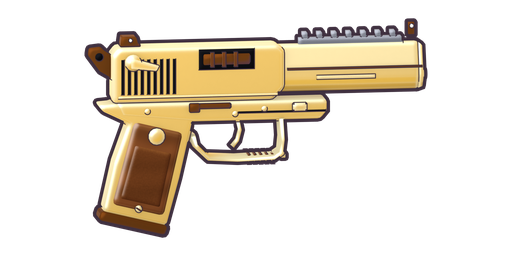
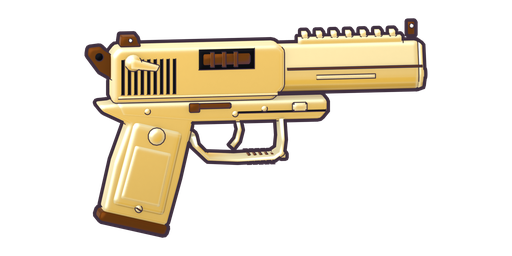
P90 d'après la référence de Victor (bleu marine usé doré, dessus plat, viseur surélevé, ouvertures percées) ; skins appliqués à tous les matériaux de l'arme

Changed region(s): [[0.2188, 0.4688, 0.375, 0.8438], [0.5625, 0.0938, 0.7812, 0.1875]]

diff --git a/art/blender/weapons_hd_p90.py b/art/blender/weapons_hd_p90.py
@@ -1,93 +1,83 @@
-"""FN P90 HD (Épique) d'après le vrai : bullpup de 50,5 × 21 cm (hauteur = 0,42 × longueur), carcasse
-très arrondie percée de deux ouvertures (trou du pouce, puis grand pontet qui sert de poignée avant
-avec son arrêtoir), chargeur translucide de 50 coups couché sur le dessus (cartouches en travers,
-vues par leur culot), viseur reflex intégré à l'avant du dessus, canon court à cache-flamme biseauté,
-leviers d'armement de part et d'autre sous le viseur, éjection vers le bas derrière la poignée.
-Teinte « FDE » (beige) de l'Épique, viseur et canon noirs. Longueur 1,7 unité comme l'ancien modèle.
+"""FN P90 HD (Épique) d'après l'image de référence de Victor (carte d'arsenal « P90 · Épique ») :
+- bloc compact et anguleux, dessus plat et continu, face avant verticale, canon court qui sort haut ;
+- carcasse inférieure épaisse percée de deux ouvertures ovales (booléens) : trou du pouce à l'arrière,
+  grand pontet à l'avant, séparés par la poignée ;
+- chargeur intégré au dessus : bande d'acier sombre à fenêtre claire ;
+- viseur surélevé à l'avant du dessus, anneau de visée arrière ;
+- bleu marine peint, usure dorée sur les arêtes et éclats d'or (finition de l'Épique).
+Longueur 1,7 unité comme l'ancien modèle.
 """
 from __future__ import annotations
 
+import math
 import os
 import sys
 
 sys.path.insert(0, os.path.dirname(os.path.abspath(__file__)))
 import rdm_common as C  # noqa: E402
+import weapon_paint as WP  # noqa: E402
 from weapons_hd_kit import box, cyl_x, cyl_y, prism, rounded  # noqa: E402
 
-W = 0.19   # largeur de la carcasse (5,5 cm)
+W = 0.19   # largeur de la carcasse
 
 
-def _bar(name, pts, r, mat, yscale=1.8):
-    """Barre de carcasse moulée : tube à section ovale (aussi large que la carcasse)."""
-    bm = C.bm_tube(pts, [r] * len(pts), seg=14)
-    C.bm_xform(bm, scale=(1.0, yscale, 1.0))
-    return C.mesh_obj(name, bm, mat)
+def _cut(target, name, x, z, rx, rz, rot=0.0):
+    """Perce une ouverture ovale de part en part (cylindre d'axe Y, booléen DIFFERENCE)."""
+    bm = C.bm_cyl(48, 1.0, 1.0, W * 3.0)
+    C.bm_xform(bm, rot=(math.pi / 2, 0, 0))
+    C.bm_xform(bm, scale=(rx, 1.0, rz))
+    C.bm_xform(bm, rot=(0, rot, 0), loc=(x, 0, z))
+    cutter = C.mesh_obj(name, bm, target.data.materials[0])
+    cutter.hide_render = True
+    cutter.hide_viewport = True
+    md = target.modifiers.new(name, "BOOLEAN")
+    md.operation = "DIFFERENCE"
+    md.solver = "EXACT"
+    md.object = cutter
+    return cutter
 
 
 def smg_p90(m):
-    body_m, dark_m = m["tan"], m["legend_flat"]
-    # Corps : de la plaque de couche (gauche) au nez sous le viseur, dessus plat sous le chargeur.
-    rounded(prism("body", [(-0.73, -0.07), (-0.74, 0.17), (-0.69, 0.235), (-0.61, 0.26), (-0.58, 0.14),
-                           (0.30, 0.14), (0.62, 0.15), (0.73, 0.11), (0.80, 0.045), (0.79, -0.05),
-                           (0.62, -0.11), (0.46, -0.13), (-0.60, -0.13)], W, body_m), 0.05, 4)
-    # Dessous : barre arrière (plaque de couche -> bas du trou du pouce -> pied de la poignée) puis
-    # pontet-poignée avant qui remonte vers l'arrêtoir.
-    # Le bas arrière est plein jusqu'au trou du pouce (petit ovale) ; le pontet est grand.
-    rounded(prism("rearLow", [(-0.73, -0.06), (-0.46, -0.12), (-0.44, -0.20), (-0.50, -0.27), (-0.62, -0.27),
-                              (-0.71, -0.20)], W, body_m), 0.05, 4)
-    pts = C.bezier((-0.56, 0, -0.26), (-0.42, 0, -0.34), (-0.26, 0, -0.34), (-0.14, 0, -0.315), 10)
-    _bar("rearBar", pts, 0.055, body_m)
-    pts = C.bezier((-0.14, 0, -0.31), (0.18, 0, -0.35), (0.46, 0, -0.32), (0.51, 0, -0.14), 12)
-    _bar("guard", pts, 0.058, body_m)
-    _bar("guardTop", [(0.51, 0, -0.14), (0.54, 0, -0.10)], 0.06, body_m)
-    # Arrêtoir de main à l'avant du pontet.
-    rounded(prism("handstop", [(0.47, -0.24), (0.56, -0.20), (0.58, -0.14), (0.52, -0.12), (0.46, -0.17)], W * 0.9,
-                  body_m), 0.02, 3)
-    # Poignée : barre inclinée entre le trou du pouce et le pontet (pied en arrière).
-    rounded(prism("grip", [(-0.06, -0.10), (0.09, -0.10), (-0.02, -0.31), (-0.17, -0.31)], W * 0.92, body_m),
-            0.05, 4)
-    # Détente et sélecteur rotatif (disque sous la détente).
-    C.mesh_obj("trigger", C.bm_tube([(0.12, 0, -0.11), (0.145, 0, -0.16), (0.13, 0, -0.20)], [0.017] * 3, seg=8),
-               dark_m)
-    # Goulotte d'éjection (sous le corps, derrière la poignée), plaque de couche caoutchouc.
-    box("chute", (0.14, W * 0.6, 0.02), (-0.26, 0, -0.125), m["bore"], bevel=0.004)
-    rounded(prism("buttpad", [(-0.76, -0.05), (-0.72, -0.07), (-0.72, 0.17), (-0.76, 0.16)], W * 1.02,
-                  m["rubber"]), 0.012, 2)
-    # Chargeur translucide fumé couché sur le dessus, cartouches en travers vues par leur culot.
-    mz0, mz1 = 0.14, 0.27
-    rounded(box("mag", (1.06, W * 0.86, mz1 - mz0), (-0.07, 0, (mz0 + mz1) / 2), m["smoke"], bevel=0.0), 0.02, 3)
-    rounded(box("magRear", (0.07, W * 0.88, mz1 - mz0 + 0.01), (-0.57, 0, (mz0 + mz1) / 2), dark_m), 0.015, 2)
-    for k in range(18):
-        x = -0.50 + k * 0.047
-        for row, z in enumerate((0.175, 0.232)):
-            xx = x + (0.0235 if row else 0.0)
-            if xx > 0.30:
-                continue
-            cyl_y("round", 0.018, W * 0.875, (xx, 0, z), m["brass"], seg=12)
-            cyl_y("primer", 0.006, W * 0.88, (xx, 0, z), m["bronze"], seg=8)
-    # Viseur reflex intégré (dessus avant) : boîtier noir, lentille avant, hausses de secours.
-    # Boîtier du viseur moulé avec la carcasse, incliné vers l'arrière ; fenêtres sombres.
-    rounded(prism("sight", [(0.22, 0.14), (0.70, 0.14), (0.72, 0.20), (0.64, 0.38), (0.40, 0.40),
-                            (0.30, 0.30)], W * 0.86, body_m), 0.045, 4)
-    rounded(prism("sightWin", [(0.42, 0.30), (0.60, 0.30), (0.62, 0.34), (0.44, 0.36)], W * 0.9, dark_m), 0.01, 2)
-    cyl_x("lensF", 0.05, 0.05, 0.012, (0.69, 0, 0.27), m["glass"], seg=24)
-    cyl_x("lensRing", 0.06, 0.06, 0.012, (0.685, 0, 0.27), dark_m, seg=24)
-    for x in (0.34, 0.58):
-        box("ironSight", (0.04, 0.03, 0.04), (x, -W * 0.46, 0.39), dark_m, bevel=0.006)
-    box("sightScrew", (0.03, 0.01, 0.03), (0.46, -W * 0.415, 0.24), m["steel"], bevel=0.004)
-    # Leviers d'armement (de part et d'autre, sous le viseur) et vis de carcasse.
-    rounded(box("charge", (0.09, 0.04, 0.035), (0.56, -W * 0.55, 0.09), dark_m), 0.01, 2)
-    for (x, z) in ((-0.48, 0.02), (0.30, 0.04), (-0.62, -0.02)):
-        cyl_y("screw", 0.014, W * 1.02, (x, 0, z), dark_m, seg=12)
-    # Anneaux de bretelle.
-    cyl_y("sling", 0.022, W * 1.08, (-0.66, 0, 0.06), m["steel"], seg=14)
-    # Canon court et cache-flamme biseauté (coupe en diagonale).
-    cyl_x("barrel", 0.032, 0.032, 0.10, (0.83, 0, 0.03), m["blued"], seg=20)
-    rounded(prism("flash", [(0.86, -0.012), (0.95, -0.012), (0.99, 0.072), (0.86, 0.072)], 0.088, dark_m), 0.012, 2)
-    for k in range(2):
-        box("flashSlot", (0.05, 0.092, 0.012), (0.915, 0, 0.012 + k * 0.032), m["bore"], bevel=0.0)
-    cyl_x("muzzleBore", 0.016, 0.016, 0.01, (0.985, 0, 0.03), m["bore"], seg=12)
-    return {"grip": (-0.07, 0, -0.20), "muzzle": (0.99, 0, 0.03)}
+    navy = WP.paint("p90_navy", "#1d2540", "#05070f", "#45547c", wear=0.75, edge="#e0ae4c", grain=0.09,
+                    grain_scale=90.0, alt="#c9973e", alt_scale=6.0, alt_cut=0.6)
+    navy_dark = WP.paint("p90_navy_dark", "#151a2c", "#040509", "#34405e", wear=0.55, edge="#d6a444", grain=0.08)
+    gold = m["gold"]
+    # Carcasse : dessus plat, plaque de couche verticale, dessous qui descend vers le pontet puis remonte
+    # vers la face avant.
+    body = prism("body", [(-0.72, 0.25), (0.74, 0.25), (0.78, 0.21), (0.78, 0.02), (0.70, -0.10), (0.58, -0.22),
+                          (0.42, -0.28), (0.25, -0.30), (0.05, -0.29), (-0.18, -0.25), (-0.50, -0.22),
+                          (-0.66, -0.19), (-0.72, -0.12)], W, navy)
+    # Trou du pouce (arrière) et grand pontet (avant), séparés par la poignée.
+    _cut(body, "thumbhole", -0.17, -0.07, 0.13, 0.10, rot=-0.25)
+    _cut(body, "guardHole", 0.26, -0.10, 0.20, 0.14, rot=0.12)
+    rounded(body, 0.03, 3)
+    # Filets dorés et rainure de plaque arrière.
+    box("goldLine", (0.36, W * 1.01, 0.012), (-0.50, 0, 0.0), gold, bevel=0.0)
+    box("buttLine", (0.012, W * 1.01, 0.30), (-0.66, 0, 0.06), m["bore"], bevel=0.0)
+    # Détente au fond du pontet.
+    C.mesh_obj("trigger", C.bm_tube([(0.13, 0, 0.05), (0.15, 0, 0.0), (0.135, 0, -0.04)], [0.016] * 3, seg=8), gold)
+    # Chargeur intégré au dessus : bande sombre, fenêtre claire (corps translucide), embouts.
+    rounded(box("mag", (1.10, W * 0.9, 0.09), (-0.08, 0, 0.29), navy_dark, bevel=0.0), 0.015, 2)
+    box("magWindow", (0.90, W * 0.92, 0.04), (-0.07, 0, 0.29), m["steel"], bevel=0.006)
+    box("magLatch", (0.06, W * 0.95, 0.05), (-0.60, 0, 0.30), m["gold"], bevel=0.006)
+    # Viseur surélevé à l'avant : bloc, lentille, anneau de visée arrière, guidon.
+    rounded(prism("sight", [(0.18, 0.33), (0.80, 0.33), (0.80, 0.40), (0.70, 0.47), (0.30, 0.47), (0.22, 0.42)],
+                  W * 0.7, navy), 0.02, 3)
+    cyl_x("lens", 0.045, 0.045, 0.012, (0.805, 0, 0.40), m["glass"], seg=24)
+    box("sightWin", (0.30, W * 0.72, 0.03), (0.47, 0, 0.42), m["glass"], bevel=0.004)
+    C.mesh_obj("ring", C.bm_xform(C.bm_torus(32, 8, 0.05, 0.014), loc=(0.68, 0, 0.53), rot=(0, math.pi / 2, 0)),
+               navy_dark)
+    box("ringPost", (0.03, 0.03, 0.05), (0.68, 0, 0.485), navy_dark, bevel=0.004)
+    box("frontSight", (0.025, 0.03, 0.05), (0.32, 0, 0.495), navy_dark, bevel=0.004)
+    # Levier d'armement doré (côté visible) et vis dorées.
+    rounded(box("charge", (0.08, 0.04, 0.04), (0.60, -W * 0.56, 0.17), gold), 0.01, 2)
+    for (x, z) in ((-0.40, 0.18), (0.10, 0.18), (0.52, -0.06), (-0.62, -0.08)):
+        cyl_y("screw", 0.016, W * 1.03, (x, 0, z), gold, seg=12)
+    # Canon court qui sort haut de la face avant, cache-flamme.
+    cyl_x("barrel", 0.034, 0.034, 0.12, (0.84, 0, 0.16), m["steel"], seg=20)
+    cyl_x("flash", 0.045, 0.042, 0.08, (0.93, 0, 0.16), navy_dark, seg=20)
+    cyl_x("muzzleBore", 0.018, 0.018, 0.01, (0.972, 0, 0.16), m["bore"], seg=12)
+    return {"grip": (0.02, 0, -0.12), "muzzle": (0.975, 0, 0.16)}
 
 
 WEAPONS = {"smg_p90": smg_p90}

diff --git a/art/blender/weapons_hd.py b/art/blender/weapons_hd.py
@@ -249,6 +249,18 @@ def render_skin(skin_id: str) -> None:
     global mats
     base = mats
     mats = _skin_mats(over, base)
+    if skin_id not in SKINS:
+        # Skin généré : tout matériau de l'arme hors petites pièces techniques prend le motif.
+        d = _tres_skin(skin_id)
+        name = "sk_" + skin_id
+
+        def _hook(mat_name):
+            if mat_name in SKIN_KEEP or mat_name.startswith("sk"):
+                return None
+            main, metal = _skin_materials(name, d["pattern"], d["color_primary"], d["color_secondary"],
+                                          d["color_accent"])
+            return metal if mat_name in SKIN_METAL else main
+        WP.hook = _hook
     try:
         big, _cam, _info, (W, H) = _render(skin_id, HD[wid], BW.HELD_ELEV, None, OUTLINE_HELD, 6)
         C.downscale(big, os.path.join(OUT_SKIN_HELD, skin_id + ".png"), (W, H))
@@ -257,6 +269,7 @@ def render_skin(skin_id: str) -> None:
         C.downscale(big, os.path.join(OUT_SKIN_ICON, skin_id + ".png"), (W2, H2))
     finally:
         mats = base
+        WP.hook = None
     print("SKIN", skin_id, (W, H), (W2, H2), flush=True)
 
 

diff --git a/art/blender/weapon_paint.py b/art/blender/weapon_paint.py
@@ -20,6 +20,9 @@ import bpy
 import rdm_common as C
 
 _cache: dict[str, bpy.types.Material] = {}
+## Rendu d'un skin : hook(nom) -> matériau qui remplace celui demandé (None = matériau normal).
+## Couvre aussi les matériaux créés directement par les modèles (noyer, marine doré du P90…).
+hook = None
 
 
 def _node(nt, kind, **inputs):
@@ -85,6 +88,10 @@ def paint(name: str, base: str, shadow: str | None = None, lit: str | None = Non
     lumière) : donne du volume aux grandes faces plates vues de profil ;
     layers : motifs de skin superposés, [(hex, masque)] où masque(nt, coord objet) -> prise 0/1
     (build_weapon_skins.mask_bands, mask_flames…)."""
+    if hook is not None:
+        r = hook(name)
+        if r is not None:
+            return r
     if name in _cache:
         return _cache[name]
     m = bpy.data.materials.new("hd_" + name)
